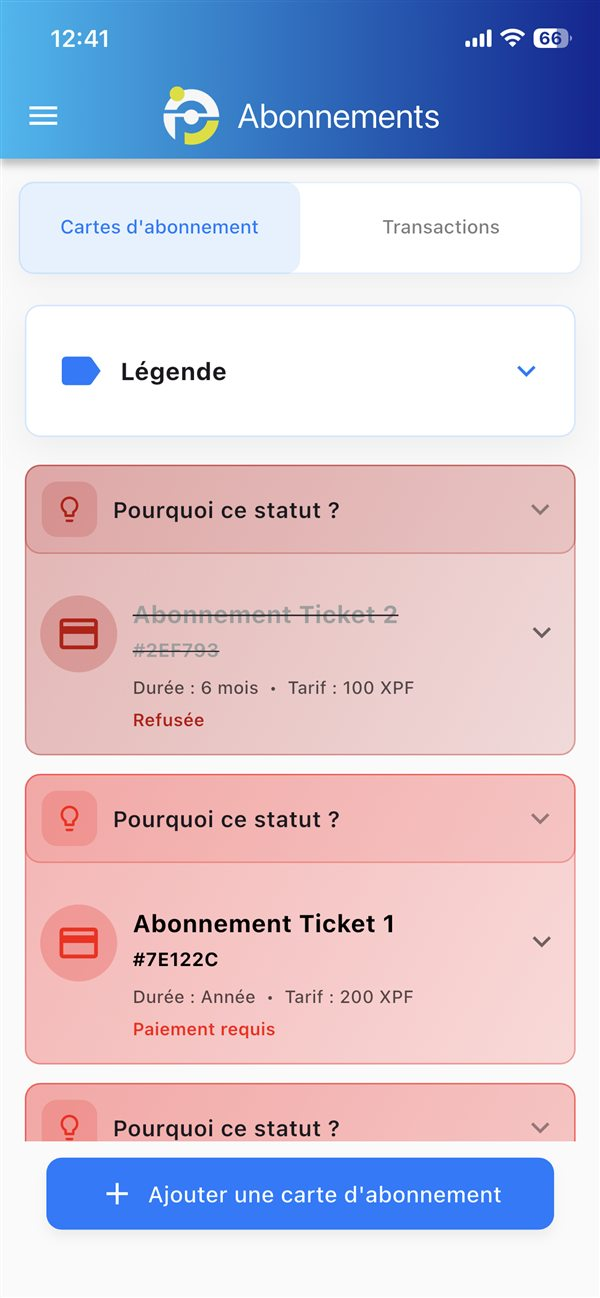
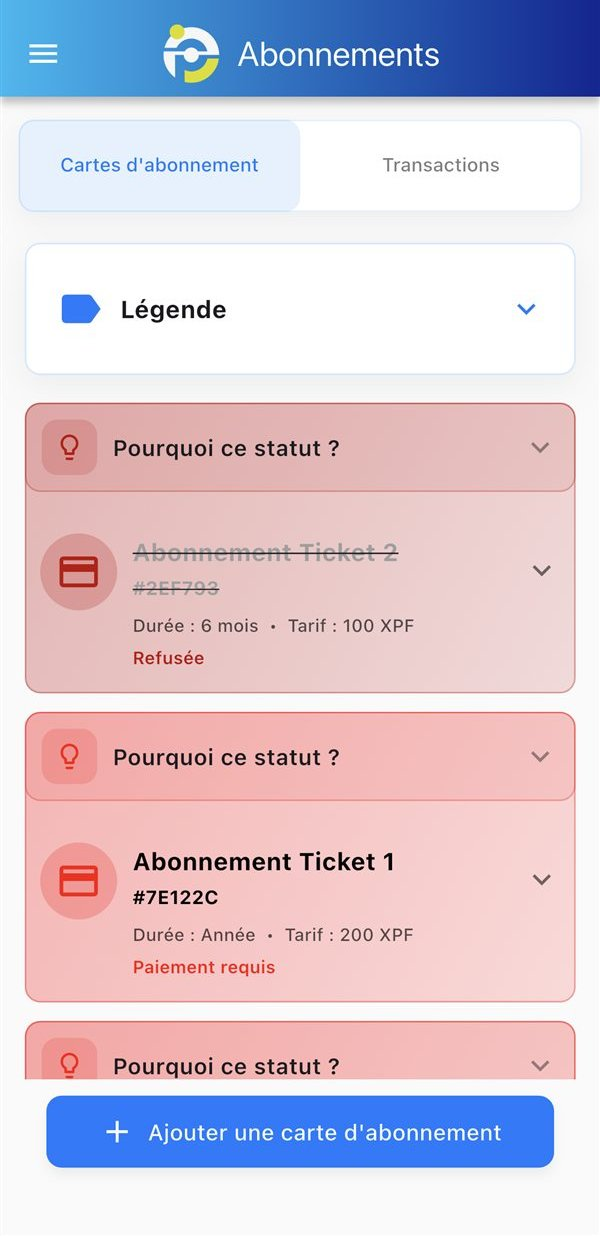
Petits textes plus grands et plus lisibles, nouvelle capture du choix de zone, captures sans barre d'état

diff --git a/src/app/globals.css b/src/app/globals.css
@@ -5,7 +5,7 @@
   --paper-deep: #e8e2d5;
   --ink: #171613;
   --ink-soft: #3b3934;
-  --muted: #76716a;
+  --muted: #66615a; /* assez foncé pour les petits textes sur le fond papier */
   --line: rgb(23 22 19 / 0.14);
   --accent: #c4471f;
 }
@@ -76,11 +76,19 @@ body::after {
   transition: background-color 9999s ease-out 0s;
 }
 
+/* Petits textes (dates, intitulés, technos) : assez grands pour être lus d'un coup d'œil. */
 .label {
   font-family: var(--font-mono);
-  font-size: 0.8rem;
-  letter-spacing: 0.08em;
+  font-size: 0.875rem;
+  font-weight: 500;
+  letter-spacing: 0.05em;
   text-transform: uppercase;
+}
+
+@media (min-width: 640px) {
+  .label {
+    font-size: 0.925rem;
+  }
 }
 
 .link-underline {

diff --git a/src/components/profile.tsx b/src/components/profile.tsx
@@ -85,7 +85,7 @@ function Row({
       <Reveal className="grid gap-3 sm:grid-cols-9 sm:gap-8">
         <p className="label text-muted pt-1.5 sm:col-span-3">
           {period}
-          {current ? <span className="text-accent ml-3">{current}</span> : null}
+          {current ? <span className="text-accent ml-3 whitespace-nowrap">{current}</span> : null}
         </p>
         <div className="sm:col-span-6">{children}</div>
       </Reveal>
